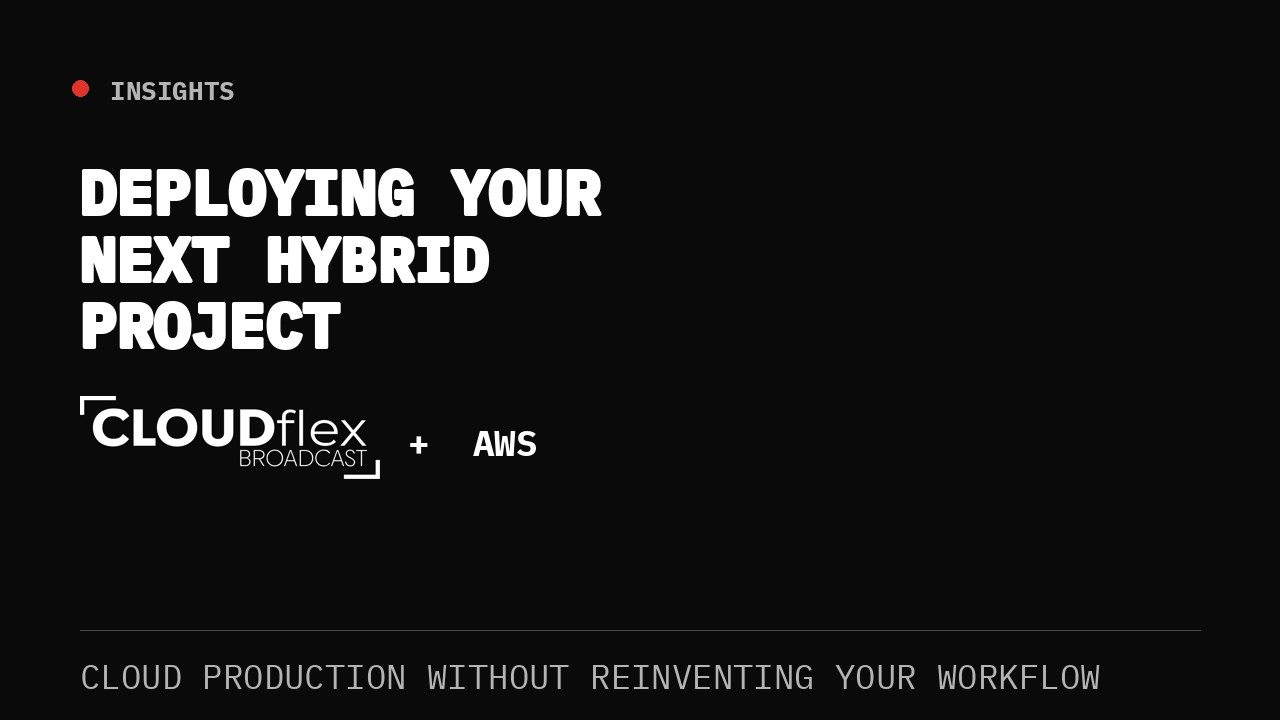
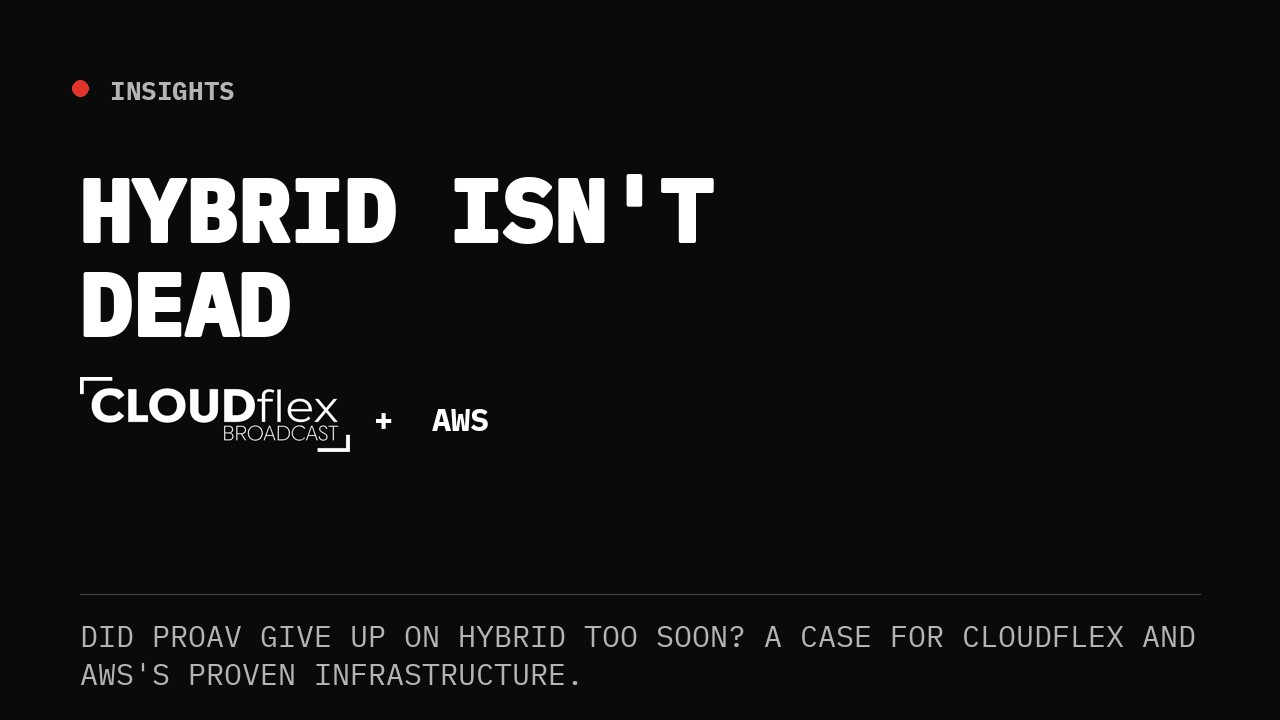
update

Changed region(s): [[0.0625, 0.2139, 0.5625, 0.4889], [0.0625, 0.8556, 0.9375, 0.9778], [0.0625, 0.5194, 0.4375, 0.6722]]

diff --git a/posts/cloudflex-aws-hybrid.html b/posts/cloudflex-aws-hybrid.html
@@ -3,8 +3,8 @@
 <head>
 <meta charset="UTF-8" />
 <meta name="viewport" content="width=device-width, initial-scale=1" />
-<title>Deploying Your Next Hybrid Project with CLOUDflex Broadcast and AWS | George E. Kennedy, Jr.</title>
-<meta name="description" content="Cloud production without reinventing your workflow — how CLOUDflex Broadcast, built on AWS, lets production teams deploy hybrid workflows without becoming cloud engineers." />
+<title>Hybrid Isn't Dead — CLOUDflex and AWS Are Proving It | George E. Kennedy, Jr.</title>
+<meta name="description" content="Did ProAV give up on hybrid too soon? A case for CLOUDflex and AWS's proven infrastructure." />
 <link rel="icon" type="image/png" sizes="32x32" href="../images/favicon-32.png" />
 <link rel="icon" type="image/png" sizes="512x512" href="../images/favicon-512.png" />
 <link rel="apple-touch-icon" href="../images/apple-touch-icon.png" />
@@ -53,22 +53,23 @@
     <div class="wrap" style="max-width:68ch;">
       <a href="../insights.html" class="back-link">← All insights</a>
       <div class="post-meta"><span class="tally"></span> George E. Kennedy, Jr. · August 31, 2026</div>
-      <h1>Deploying Your Next Hybrid Project with CLOUDflex Broadcast and AWS</h1>
-      <p class="subtitle">Cloud production without reinventing your workflow.</p>
+      <h1>Hybrid Isn't Dead — CLOUDflex and AWS Are Proving It</h1>
+      <p class="subtitle">Did ProAV give up on hybrid too soon? A case for CLOUDflex and AWS's proven infrastructure.</p>
     </div>
   </section>
 
   <article class="article-body">
     <figure>
-      <img src="../images/thumb-cloudflex-aws.jpg" alt="Deploying Your Next Hybrid Project with CLOUDflex Broadcast and AWS" style="width:100%; border-radius:4px; display:block;" />
+      <img src="../images/thumb-cloudflex-aws.jpg" alt="Hybrid Isn't Dead — CLOUDflex and AWS Are Proving It" style="width:100%; border-radius:4px; display:block;" />
     </figure>
 
     <p>For years, hybrid events have forced production teams to choose between two extremes: stay completely on-premises with familiar hardware, or move everything into the cloud and spend weeks learning AWS infrastructure.</p>
     <p>The good news? That decision no longer has to be an either-or proposition.</p>
     <p>Platforms like <strong>CLOUDflex Broadcast</strong>, built on the scalability of <strong>Amazon Web Services (AWS)</strong>, allow production teams to deploy professional broadcast workflows in the cloud without becoming cloud engineers. Instead of replacing your workflow, it extends it.</p>
-    <p>I ran CLOUDflex on a recent corporate/conference event, deploying vMix through it exactly the way I would on any on-prem show. What stood out most wasn't the technology in the abstract — it was how simple crew access turned out to be in practice.</p>
+    <p>I ran CLOUDflex at a recent corporate/conference event, deploying vMix through it exactly the way I would on any on-prem show. What stood out most wasn't the technology in the abstract — it was how simple crew access turned out to be in practice.</p>
+    <p>A lot of the ProAV industry has already moved past talking about hybrid — it stopped being the exciting new idea a while ago. What CLOUDflex changed for me wasn't the concept. It was seeing a platform actually make the concept work the way it was always supposed to.</p>
 
-    <h2>Why Hybrid Production Has Become the New Standard</h2>
+    <h2>Why Hybrid Production Still Matters</h2>
     <p>Today's productions rarely happen entirely in one location.</p>
     <p>You may have:</p>
     <ul>
@@ -80,6 +81,18 @@
     </ul>
     <p>Managing all of these resources efficiently is exactly where cloud infrastructure shines.</p>
     <p>AWS provides virtually unlimited compute, networking, and scalability for live media workloads, while CLOUDflex simplifies deployment so production teams can focus on producing — not configuring cloud services.</p>
+
+    <h2>Getting Your Content Into the Cloud</h2>
+    <p>Today, ProAV, live event, video production, and even digital film crews and teams can take advantage of CLOUDflex, getting their on-site ballroom, concert venue, production, or set into the cloud. SRT is an excellent transport of choice.</p>
+    <p><strong>SRT (Secure Reliable Transport)</strong> was built specifically for the problem hybrid production constantly runs into: getting broadcast-quality video across unpredictable public internet connections — hotel Wi-Fi, venue-provided internet, a cellular bonded connection — without the dropped frames and rebuffering that plagued earlier protocols.</p>
+    <p>It does this through packet-loss recovery, adaptive bitrate handling, in-transit encryption, and low enough latency for genuinely live production, not just live-ish streaming. For a technical director cutting a show in real time, that latency difference is the whole ballgame.</p>
+    <p>SRT isn't the only option, and part of choosing well is matching the transport to the job:</p>
+    <ul>
+      <li><strong>RTMP</strong> — still widely supported, simpler to configure, a reasonable choice when ultra-low latency isn't critical</li>
+      <li><strong>NDI</strong> — excellent for moving video around a local production network, often paired with a cloud bridge to extend that same workflow off-site</li>
+      <li><strong>Bonded cellular</strong> — for venues with no reliable wired internet at all, bonding multiple cellular connections into one stable uplink</li>
+    </ul>
+    <p>The point isn't that one transport wins in every situation. It's that CLOUDflex doesn't lock you into a single ingest path — you choose what fits the venue, the network conditions, and the show, the same way you'd choose any other piece of your signal chain.</p>
 
     <h2>Keep Using the Tools You Already Know</h2>
     <p>One of the biggest misconceptions about cloud production is that everything has to change.</p>
@@ -149,12 +162,13 @@
     <p>The cloud simply provides another place to run those tools.</p>
 
     <h2>Final Thoughts</h2>
-    <p>Hybrid production isn't a temporary trend — it's becoming the operational model for conferences, corporate events, esports, houses of worship, government meetings, and live broadcasts.</p>
+    <p>Hybrid and cloud production isn't a temporary trend — it's already a proven operational model for many conferences, corporate events, esports, houses of worship, government meetings, and live broadcasts.</p>
     <p>The real question isn't whether you'll use cloud infrastructure.</p>
     <p>It's whether your cloud deployment makes life easier for your operators.</p>
     <p>Solutions like CLOUDflex Broadcast, combined with the scalability and reliability of AWS, are helping production teams deploy professional cloud workflows without sacrificing the tools and operational practices they've spent years mastering.</p>
-    <p>The future of live production isn't about replacing broadcast engineering.</p>
-    <p><strong>It's about giving broadcast engineers better infrastructure to build on.</strong></p>
+    <p>Cloud production isn't about replacing the venue, broadcast, ProAV, or engineers.</p>
+    <p><strong>It's about giving ProAV, production companies, and engineers better infrastructure to build on — from the ballroom, concert venue, production set, to the cloud.</strong></p>
+    <p>Hybrid isn't dead. It just needed infrastructure that finally caught up to it.</p>
   </article>
 </main>
 

diff --git a/insights.html b/insights.html
@@ -86,8 +86,8 @@
           </div>
           <div class="post-card-body">
             <div class="post-meta">George E. Kennedy, Jr. · August 31, 2026</div>
-            <h3>Deploying Your Next Hybrid Project with CLOUDflex Broadcast and AWS</h3>
-            <p>Cloud production without reinventing your workflow.</p>
+            <h3>Hybrid Isn't Dead — CLOUDflex and AWS Are Proving It</h3>
+            <p>Did ProAV give up on hybrid too soon? A case for CLOUDflex and AWS's proven infrastructure.</p>
             <span class="read">Read post →</span>
           </div>
         </a>
